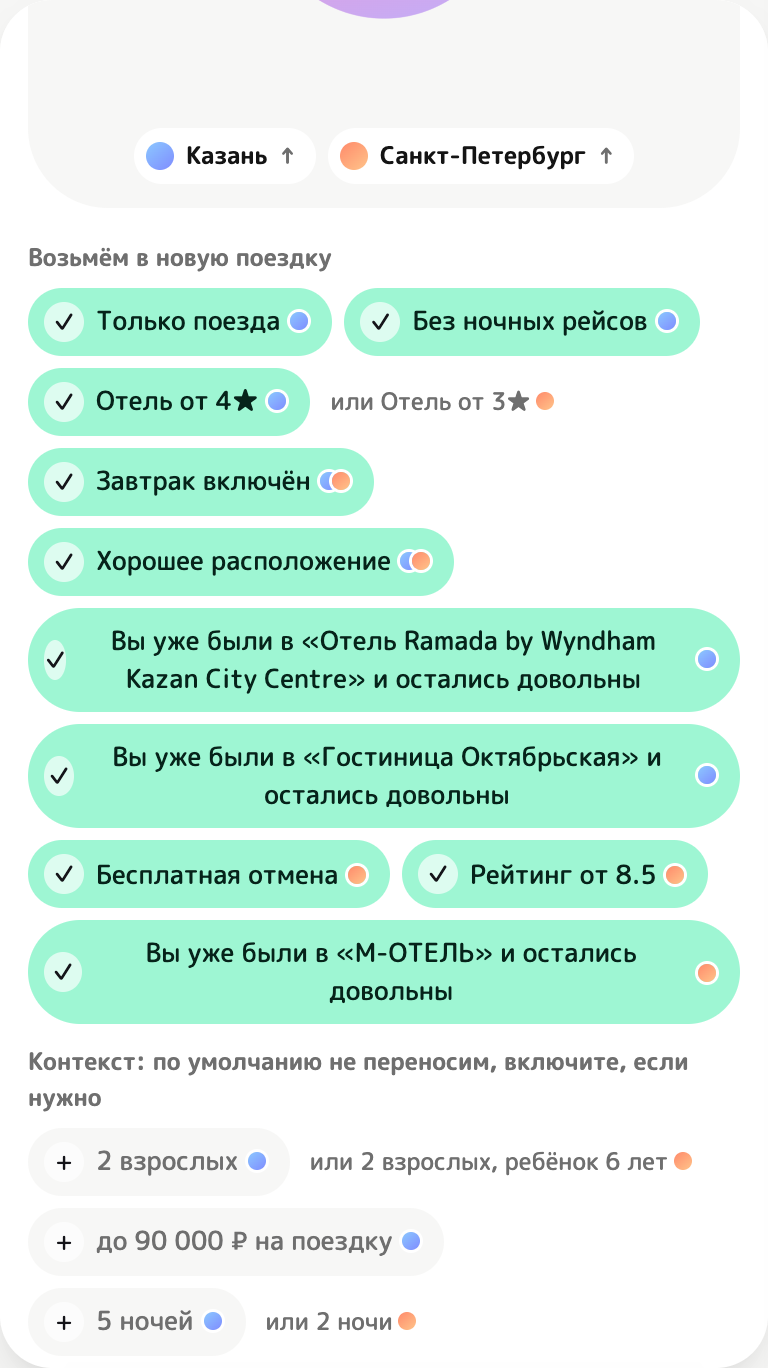
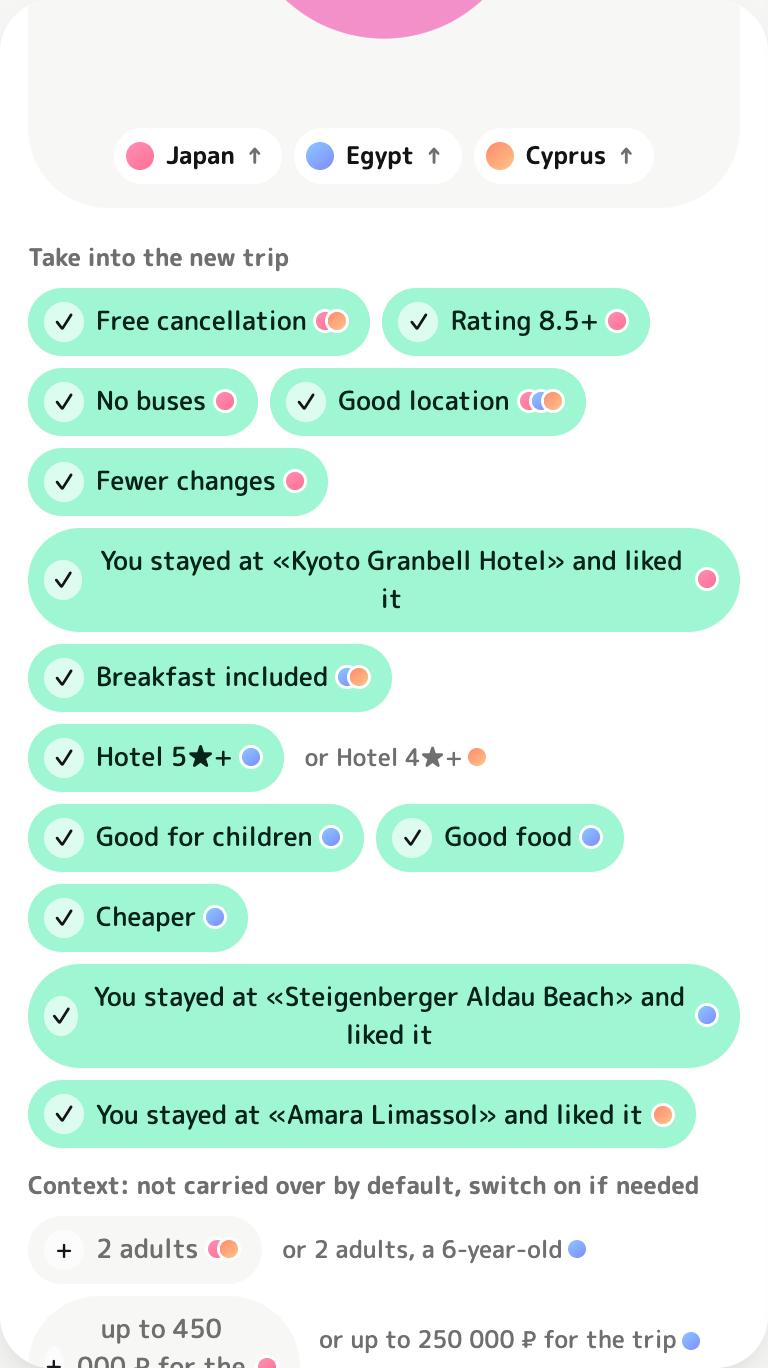
Screenshots in English; blend demo uses Japan, Egypt and Cyprus
The README is in English but every screenshot showed the Russian UI, so a
reader could not follow the blend feature from the pictures alone. The shots
are now taken with a capture-time translation overlay over the live UI and
English map labels; the plans, prices and hotels behind them are the same
live data. The product itself still speaks Russian, and the README says so.

The blend demo seed swaps Turkey and Kazan for Egypt and Cyprus, so make seed
reproduces exactly what the GIF shows: three trips abroad, a 5 star versus
4 star conflict, and context (party, budget, nights) left off by default.
The hotel card is captured below its photo, because the facade sign is
Cyrillic and cannot be translated.

diff --git a/backend/scripts/seed_history_demo.py b/backend/scripts/seed_history_demo.py
@@ -1,6 +1,6 @@
 """Seed past trips with feedback for the blend demo ("drag Japan into China").
 
-Creates three finished trips for one user (Japan, Turkey, Kazan) with the criteria the user chose, who travelled,
+Creates three finished trips for one user (Japan, Egypt, Cyprus) with the criteria the user chose, who travelled,
 the budget and a rating, then rebuilds the learned profile. Idempotent per title: running it twice does not
 duplicate trips.
 
@@ -38,13 +38,14 @@ def _shift(state: dict, days: int) -> dict:
     return out
 
 
-def _city_trip(title: str, city: str, lat: float, lon: float, start: date, nights: int, hotel: str, amenities: list[str]) -> dict:
+def _city_trip(title: str, city: str, lat: float, lon: float, start: date, nights: int, hotel: str, amenities: list[str],
+               stars: int = 4, rating: float = 8.9, price: int = 90000) -> dict:
     end = start + timedelta(days=nights)
     return {"title": title, "status": "ready", "sequence": ["stay"],
             "places": {"city": {"name": city, "lat": lat, "lon": lon}},
             "nodes": {"stay": {"type": "stay", "place": "city", "check_in": start.isoformat(), "check_out": end.isoformat(),
                                "selected_offer_ref": "hotel"}},
-            "offers": {"hotel": {"name": hotel, "stars": 4, "rating": 8.9, "amenities": amenities, "price": 90000, "currency": "RUB"}}}
+            "offers": {"hotel": {"name": hotel, "stars": stars, "rating": rating, "amenities": amenities, "price": price, "currency": "RUB"}}}
 
 
 TRIPS = [
@@ -54,16 +55,19 @@ TRIPS = [
       "priorities": [{"key": "location", "weight": 2.5}, {"key": "transfers", "weight": 1.5}],
       "party": {"adults": 2}, "budget": {"amount": "450000", "currency": "RUB", "scope": "trip"}},
      [("stay_osaka", 1, {"location": 1, "rating": 1})]),
-    ({**_city_trip("Турция", "Анталья", 36.8969, 30.7133, date(2025, 8, 10), 7, "Akra Hotel", ["завтрак", "бесплатная отмена", "бассейн"]),
-      "constraints": [{"kind": "breakfast", "value": True}, {"kind": "free_cancellation", "value": True},
-                      {"kind": "min_stars", "value": 4}, {"kind": "kid_friendly", "value": True}],
-      "priorities": [{"key": "price", "weight": 1.5}, {"key": "meal", "weight": 2.0}],
-      "party": {"adults": 2, "children_ages": [6]}, "budget": {"amount": "280000", "currency": "RUB", "scope": "trip"}},
+    ({**_city_trip("Египет", "Хургада", 27.2579, 33.8116, date(2026, 2, 14), 7, "Steigenberger Aldau Beach",
+                   ["завтрак", "детский клуб", "бассейн"], stars=5, rating=9.1, price=168000),
+      "constraints": [{"kind": "breakfast", "value": True}, {"kind": "min_stars", "value": 5},
+                      {"kind": "kid_friendly", "value": True}],
+      "priorities": [{"key": "meal", "weight": 2.0}, {"key": "price", "weight": 1.5}],
+      "party": {"adults": 2, "children_ages": [6]}, "budget": {"amount": "250000", "currency": "RUB", "scope": "trip"}},
      [("stay", 1, {"meal": 1, "price": 1})]),
-    ({**_city_trip("Казань", "Казань", 55.7963, 49.1088, date(2026, 5, 1), 3, "Courtyard Kazan Kremlin", ["завтрак"]),
-      "constraints": [{"kind": "breakfast", "value": True}, {"kind": "min_stars", "value": 3}],
+    ({**_city_trip("Кипр", "Лимассол", 34.6786, 33.0413, date(2026, 9, 12), 6, "Amara Limassol",
+                   ["завтрак", "бесплатная отмена", "вид на море"], rating=9.3, price=142000),
+      "constraints": [{"kind": "breakfast", "value": True}, {"kind": "free_cancellation", "value": True},
+                      {"kind": "min_stars", "value": 4}],
       "priorities": [{"key": "location", "weight": 2.0}],
-      "party": {"adults": 1}, "budget": {"amount": "40000", "currency": "RUB", "scope": "stay"}},
+      "party": {"adults": 2}, "budget": {"amount": "300000", "currency": "RUB", "scope": "trip"}},
      [("stay", 1, {"location": 1})]),
 ]
 

diff --git a/docs/trip-blend.md b/docs/trip-blend.md
@@ -1,8 +1,10 @@
-# A new trip from past ones: blending Japan and Turkey
+# A new trip from past ones: blending Japan, Egypt and Cyprus
 
 The screen where the user "pours" past trips (flat coloured drops) into a bowl, and their tastes blend into the concept of a new trip. It is the showcase of the history module (`backend/history`; the design and the review of the idea are in [trip-templates.md](trip-templates.md)): what the system remembers about past trips is visible, under the user's control, and applied with one gesture.
 
-![Pouring two past trips into one concept](screenshots/craft-pour.gif)
+![Pouring three past trips into one concept](screenshots/craft-pour.gif)
+
+*The screenshots show an English rendering of the Russian UI (see the note in the [README](../README.md)).*
 
 ## Why a gesture and not a list
 
@@ -12,11 +14,11 @@ The track requires that the system remembers past trips and takes them into acco
 
 1. The chat header has a button with three circles ("Build a trip from past ones"). It opens the workshop over the whole chat column; the conversation comes back when it closes.
 2. **The shelf**: past trips as flat drops with a two-tone gradient (title, month and year). Each trip has its own pair of colours. The current trip is not on the shelf.
-3. **The bowl**: a drop thrown into it pours into the concept like liquid: as it arrives it merges through a neck, like mercury, the concept grows and its colour flows into a mix of all the trips inside. The drop is absorbed whole, so the concept is always a clean circle, only larger and of a different colour. Below it are tokens for the trips inside ("Japan ↑", "Turkey ↑"). The empty place on the shelf stays as a dashed circle, so it is clear where the drop will return.
+3. **The bowl**: a drop thrown into it pours into the concept like liquid: as it arrives it merges through a neck, like mercury, the concept grows and its colour flows into a mix of all the trips inside. The drop is absorbed whole, so the concept is always a clean circle, only larger and of a different colour. Below it are tokens for the trips inside ("Japan ↑", "Egypt ↑"). The empty place on the shelf stays as a dashed circle, so it is clear where the drop will return.
 4. **Ingredients** below the bowl, in two groups:
    - "Take into the new trip": tastes and hotels, on by default;
    - "Context": party, budget, length, off by default, switched on with a tap.
-5. **"Build the trip · N"** saves the selection and pre-fills the start of a message, for example «Новая поездка с вкусами из «Турция» и «Казань», нас 2 взрослых, ребёнок 6 лет. Куда: » ("A new trip with tastes from Turkey and Kazan, we are 2 adults and a 6-year-old. Where to: "). The user types the destination and sends it. A pill stays above the input: "Concept Turkey + Kazan: 9 tastes · edit".
+5. **"Build the trip · N"** saves the selection and pre-fills the start of a message, for example «Новая поездка с вкусами из «Египет» и «Кипр», нас 2 взрослых, ребёнок 6 лет. Куда: » ("A new trip with tastes from Egypt and Cyprus, we are 2 adults and a 6-year-old. Where to: "). The user types the destination and sends it. A pill stays above the input: "Concept Egypt + Cyprus: 9 tastes · edit".
 
 ![Ingredients of the blended concept](screenshots/craft-ingredients.png)
 
@@ -30,7 +32,7 @@ The track requires that the system remembers past trips and takes them into acco
 | Release it somewhere else | A drop from the shelf rolls back; a pulled drop released inside the bowl sinks back into the circle |
 | Tap without dragging | A drop on the shelf pours in; a token in the bowl takes the trip out. Enter and Space do the same |
 | Tap a chip | Toggle it. This includes context: there are no locks, only context is off by default |
-| A conflict (Turkey "4★ and up", Kazan "3★ and up") | The chip shows the chosen variant, and next to it "or 3★ and up" with Kazan's dot. A tap switches. By default the trip poured in first wins |
+| A conflict (Egypt "5★ and up", Cyprus "4★ and up") | The chip shows the chosen variant, and next to it "or 4★ and up" with Cyprus's dot. A tap switches. By default the trip poured in first wins |
 | Esc or × | Collapse the workshop; the bowl's contents are kept for this chat |
 
 How the "liquid" is made. The bowl is drawn in SVG: the concept circle and the drops sit in one group under the `#goo` filter (`index.html`), a blur followed by a hard alpha threshold, so shapes close to each other stick together through a neck and tear apart when stretched. Everything that is already part of the concept is filled with **one** gradient in shared coordinates (`#mass`, `gradientUnits="userSpaceOnUse"`), so the circle and a drop sinking into it read as a single mass, not as two circles with their own colours. A drop in flight wears its trip's colours and flows into the shared gradient just before contact; a drop being pulled out gets its own colours back as it moves away. The trips' colours are not placed side by side as patches but mixed (`color-mix` in `oklch`, so the mix stays vivid instead of turning grey): a new trip tints the whole mass, most strongly on the side it came from. The mixing and the growth start at the moment of contact; colours are registered `@property --m1…--m3` and change smoothly. The label and the tokens sit outside the filter, so text stays sharp. On every change the ingredients glide to their new places (a FLIP animation).
@@ -43,7 +45,7 @@ How the "liquid" is made. The bowl is drawn in SVG: the concept circle and the d
 | Hotels (`hotel`) | hotels the user rated 👍 (or 👎) | on | a `history_hints` hint, used only in the same city, never a condition |
 | Context (`context`) | party, budget, number of nights | **off** | not stored as structure: when switched on, it goes as text into the user's message, which they see and can edit |
 
-Why context is off rather than forbidden. A family trip to Turkey and a business trip to Kazan: silently carrying over the party or the budget is a guaranteed wrong plan. Forbidding it is wrong too: "like last time, there are three of us" is a normal request. So context is visible, off, and one tap away. When switched on it travels **as text**, through the same parsing agent as any other message, and the user sees the wording before sending.
+Why context is off rather than forbidden. A family holiday in Egypt and a trip for two to Cyprus: silently carrying over the party or the budget is a guaranteed wrong plan. Forbidding it is wrong too: "like last time, there are three of us" is a normal request. So context is visible, off, and one tap away. When switched on it travels **as text**, through the same parsing agent as any other message, and the user sees the wording before sending.
 
 What never carries over: dates, prices, specific offers. They go stale and belong to the past trip, not to taste.
 
@@ -61,15 +63,15 @@ The ingredients of one trip. Texts are in Russian, the language of the product.
 
 ```json
 {
-  "chat_id": "…", "title": "Турция",
+  "chat_id": "…", "title": "Египет",
   "ingredients": [
     {"key": "constraint:breakfast", "group": "taste", "text": "Завтрак включён",
-     "why": "выбирали в «Турция» и остались довольны", "default_on": true,
+     "why": "выбирали в «Египет» и остались довольны", "default_on": true,
      "item": {"type": "constraint", "kind": "breakfast", "value": true, "strength": "soft"}, "phrase": null},
-    {"key": "hotel:like:akra hotel", "group": "hotel", "text": "Вы уже были в «Akra Hotel» и остались довольны",
-     "why": "из «Турция», сработает только в Анталья", "default_on": true, "item": {"type": "hotel", "…": "…"}, "phrase": null},
+    {"key": "hotel:like:steigenberger aldau beach", "group": "hotel", "text": "Вы уже были в «Steigenberger Aldau Beach» и остались довольны",
+     "why": "из «Египет», сработает только в Хургада", "default_on": true, "item": {"type": "hotel", "…": "…"}, "phrase": null},
     {"key": "context:party", "group": "context", "text": "2 взрослых, ребёнок 6 лет",
-     "why": "состав в «Турция»", "default_on": false, "item": null, "phrase": "нас 2 взрослых, ребёнок 6 лет"}
+     "why": "состав в «Египет»", "default_on": false, "item": null, "phrase": "нас 2 взрослых, ребёнок 6 лет"}
   ]
 }
 ```
@@ -78,8 +80,8 @@ The ingredients of one trip. Texts are in Russian, the language of the product.
 Saves the concept for the new trip `chat_id`.
 
 ```json
-{"picks": [{"key": "constraint:breakfast", "source": "<Turkey's chat_id>"},
-           {"key": "constraint:min_stars", "source": "<Turkey's chat_id>"}]}
+{"picks": [{"key": "constraint:breakfast", "source": "<Egypt's chat_id>"},
+           {"key": "constraint:min_stars", "source": "<Egypt's chat_id>"}]}
 ```
 
 - The client only **chooses** (a key and a source trip); the server re-reads the value from that trip, so a value cannot be forged on the client.
@@ -109,13 +111,13 @@ cd backend
 python scripts/seed_history_demo.py --user-id <user uuid>
 ```
 
-The script adds "Japan" (April), "Turkey" (August, with a child) and "Kazan" (May, alone), each with a rating, and rebuilds the profile. Running it again duplicates nothing. The guest session's `user-id` is in the token (`sub`) or in the `users` table.
+The script adds "Japan" (April, two adults), "Egypt" (February, with a child) and "Cyprus" (September, two adults), each with a rating, and rebuilds the profile. Running it again duplicates nothing. The guest session's `user-id` is in the token (`sub`) or in the `users` table.
 
 A one-minute walkthrough:
 1. Open "Build a trip from past ones".
-2. Pour in Japan: "Free cancellation", "Rating 8.5 and up", "No buses", "Good location" and the hotel in Osaka appear.
-3. Pour in Turkey: "Free cancellation" gets a second dot; breakfast and "Good for children" are added.
-4. Pour in Kazan: a conflict appears, "4★ and up or 3★ and up".
+2. Pour in Japan: "Free cancellation", "Rating 8.5 and up", "No buses", "Good location" and the hotel Japan was rated for appear.
+3. Pour in Egypt: breakfast, "5★ and up", "Good for children" and "Good food" are added.
+4. Pour in Cyprus: "Free cancellation" and breakfast get a second dot, and a conflict appears, "5★ and up or 4★ and up".
 5. Pull Japan's token back out: its items leave, the shared ones stay.
 6. Switch on the context "2 adults, a 6-year-old", press "Build the trip", type "to China in March".
 

diff --git a/README.md b/README.md
@@ -15,11 +15,13 @@ One message becomes a bookable trip: the agent asks only what it really needs, s
 > This repository is an English translation, republished with the teammates' permission.
 > The product itself speaks Russian — it was built for a Russian travel platform — so the
 > interface, the bot, the LLM prompts and the test requests stay in Russian; the code,
-> the comments and the documentation are in English.
+> the comments and the documentation are in English. The screenshots and the GIF show the
+> interface with its text rendered in English at capture time (a translation overlay over
+> the live Russian UI, map labels in English); the data behind them is real.
 
 ## The main idea: a plan is a structure, not a text
 
-Several agents work on every message, but none of them writes the plan. A trip is a typed graph: stays and legs with stable ids, the offers chosen for them, conditions that remember where they came from ("you said", "from your trip to Kazan", "a default") and a version for every change. The LLM only understands language and words the answer; everything that touches money, dates or the choice of an offer is computed by code, through a closed set of operations with permissions per agent.
+Several agents work on every message, but none of them writes the plan. A trip is a typed graph: stays and legs with stable ids, the offers chosen for them, conditions that remember where they came from ("you said", "from your trip to Cyprus", "a default") and a version for every change. The LLM only understands language and words the answer; everything that touches money, dates or the choice of an offer is computed by code, through a closed set of operations with permissions per agent.
 
 That one decision is what makes the rest possible:
 
@@ -32,17 +34,17 @@ That one decision is what makes the rest possible:
 
 The track asked for a system that remembers your past trips. We made that memory something you can see and hold: past trips sit on a shelf as coloured drops, and you pour them into a bowl. The concept absorbs them like liquid, its colour turns into a mix of the trips inside, and their tastes appear below as ingredients of the new trip.
 
-![Pouring two past trips into one concept](docs/screenshots/craft-pour.gif)
+![Pouring Japan, Egypt and Cyprus into one concept](docs/screenshots/craft-pour.gif)
 
 <table>
 <tr>
-<td width="50%"><img src="docs/screenshots/craft-concept.png" alt="The concept with two trips poured in"></td>
+<td width="50%"><img src="docs/screenshots/craft-concept.png" alt="The concept with three trips poured in"></td>
 <td width="50%"><img src="docs/screenshots/craft-ingredients.png" alt="Merged tastes, a conflict and context that is off by default"></td>
 </tr>
 </table>
 
 - **Tastes merge, they never overwrite.** "Breakfast included" from both trips becomes one chip with two coloured dots — one per source trip.
-- **Conflicts are the user's call.** One trip wanted "4★ and up", the other "3★ and up": the chip shows the chosen variant and offers the other one next to it.
+- **Conflicts are the user's call.** Egypt wanted "5★ and up", Cyprus "4★ and up": the chip shows the chosen variant and offers the other one next to it.
 - **Context is offered, not applied.** The party, the budget and the length of a trip are off by default — silently carrying a family trip's party into a business trip is the classic way to get a wrong plan — but one tap switches them on, and they travel as editable text in your next message.
 - **Everything is reversible.** Pull a trip's token out of the bowl and a drop tears away from the concept through a liquid neck; its tastes leave with it, the shared ones stay.
 - **Provenance survives into the plan.** Inherited conditions are applied as soft ones, and the answer says where they came from; whatever you say in the new trip always wins.
@@ -217,7 +219,7 @@ The first build takes a few minutes, later ones seconds. Only Docker and Compose
 | `GIGACHAT_AUTH_KEY` in `.env` | the app starts, `/ready` reports `llm: missing`, and the agent answers with an error |
 | Access to `mcp.tutu.ru` (hotels and transport) | `auto` mode fills the gaps with demo data labelled «демо». `HOTELS_SOURCE=tutu` / `TRANSPORT_SOURCE=tutu` means live data only |
 
-For the blending demo there is an optional seed: three finished trips (Japan, Turkey, Kazan) with ratings for your guest user.
+For the blending demo there is an optional seed: three finished trips (Japan, Egypt, Cyprus) with ratings for your guest user.
 
 ```bash
 make seed USER_ID=<user uuid>        # the id is in the users table or in the POST /api/v1/auth/guest response
